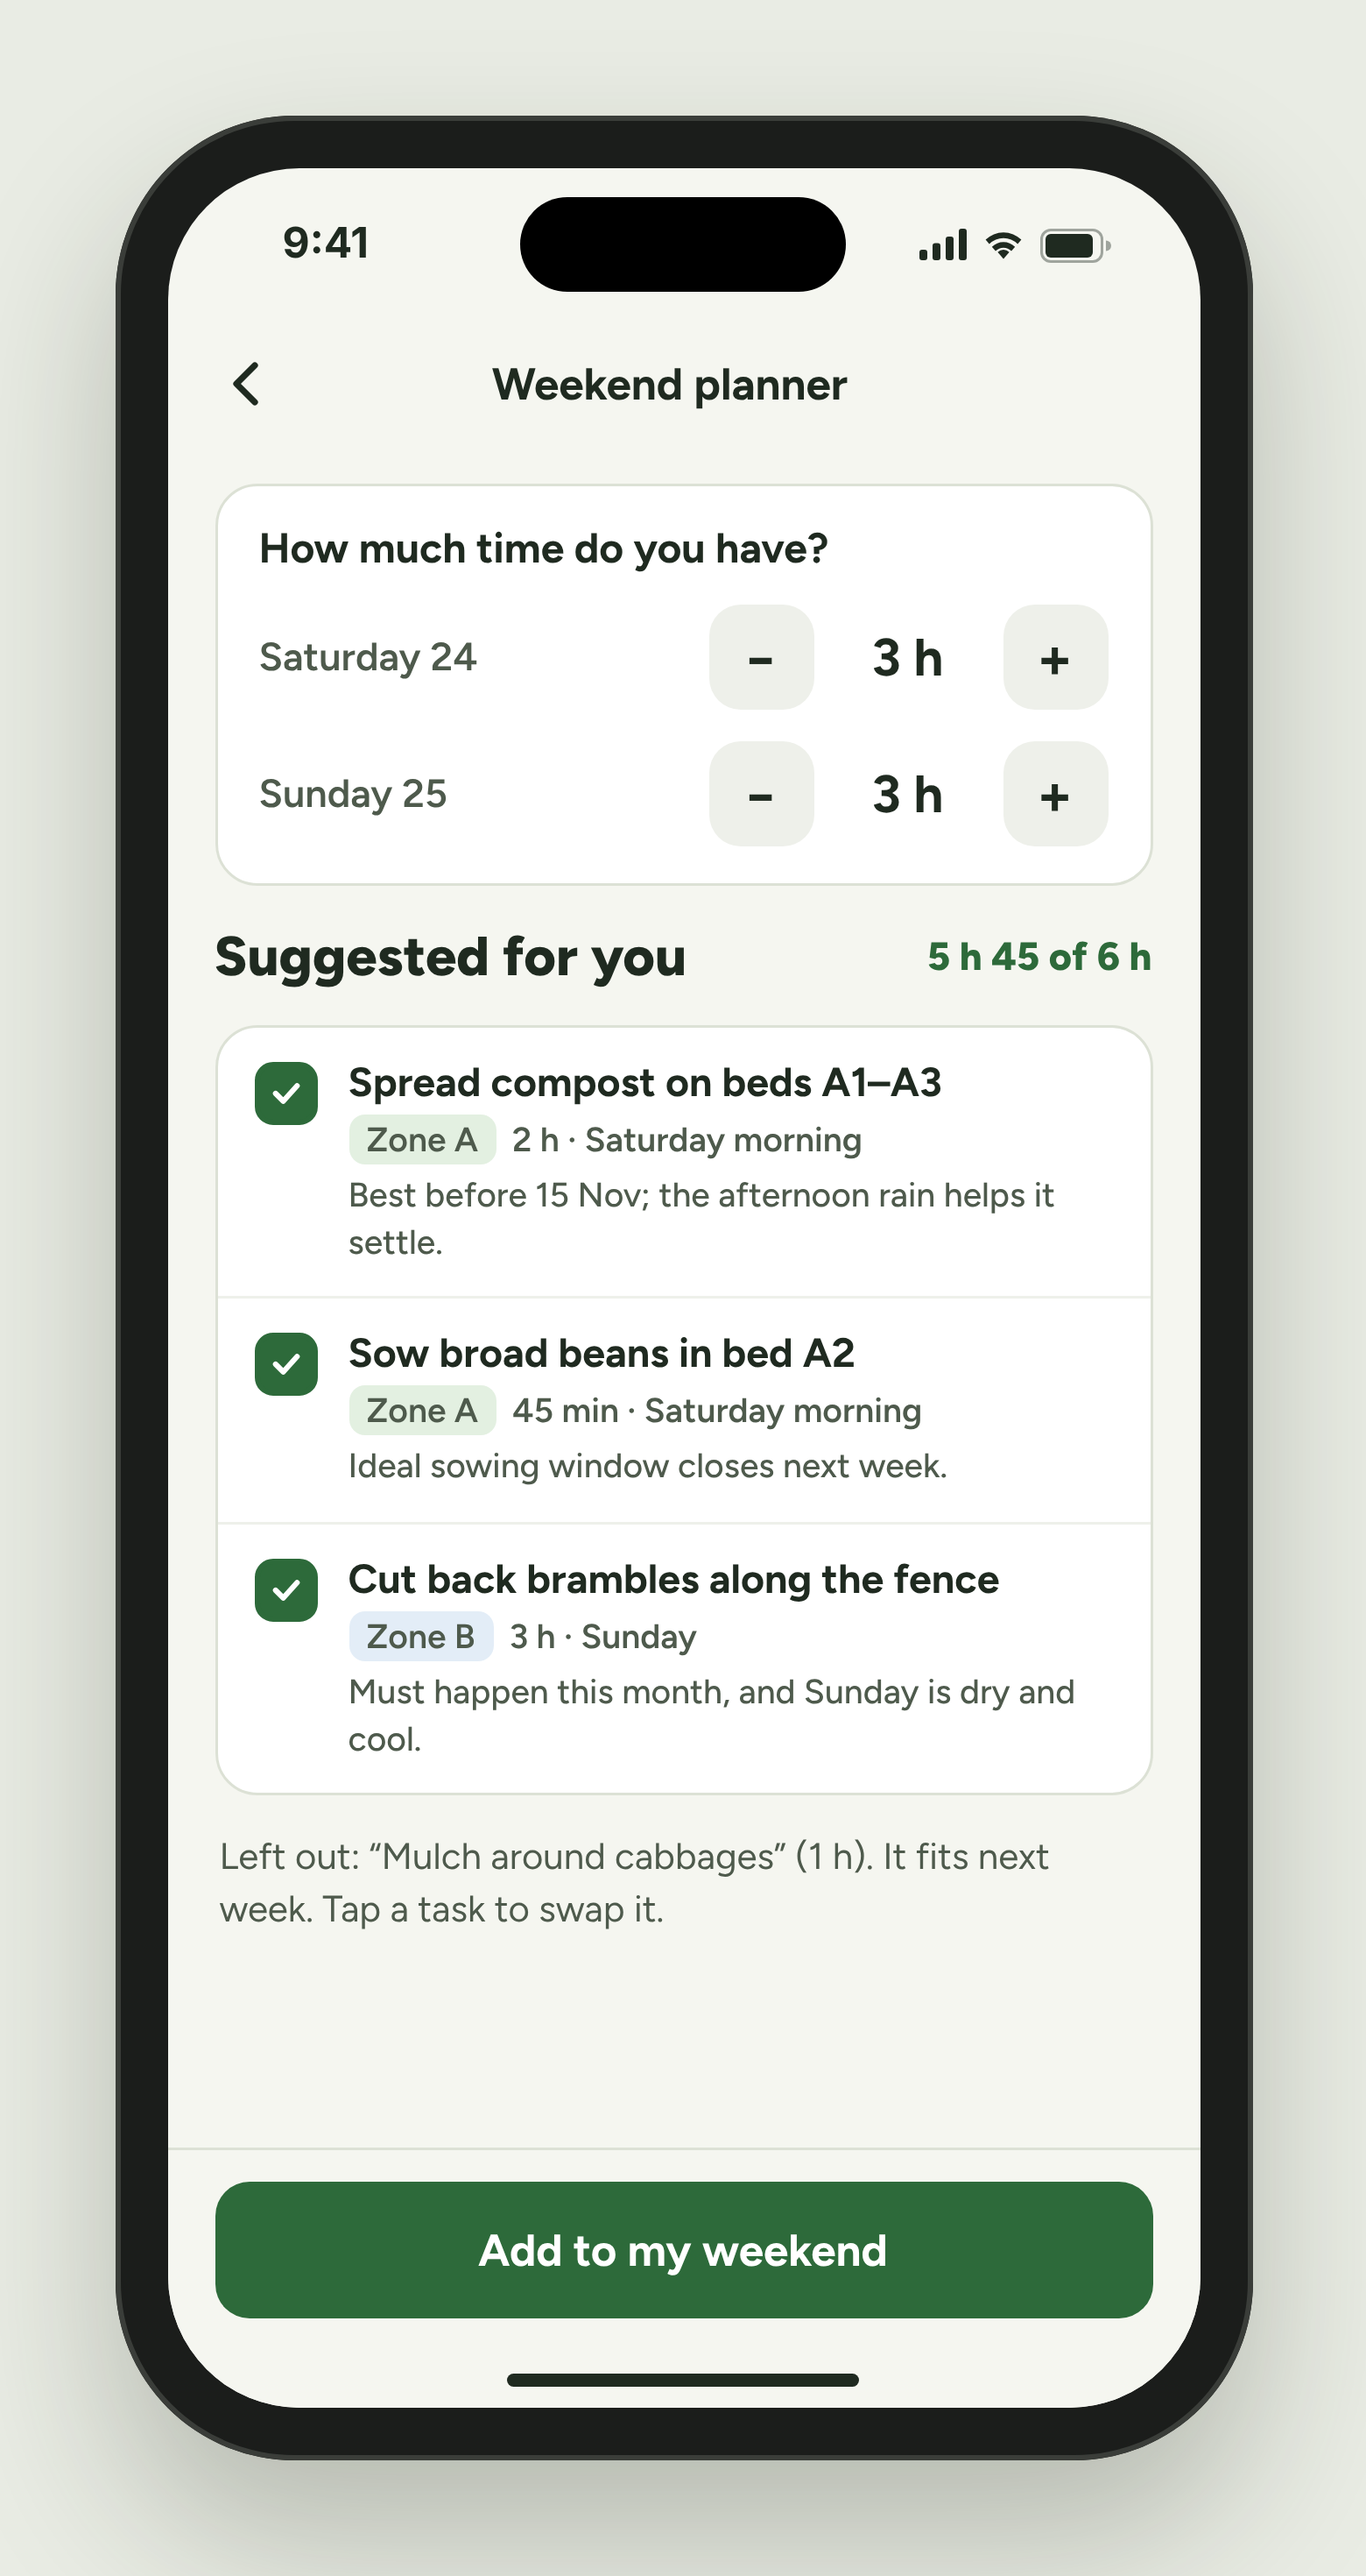
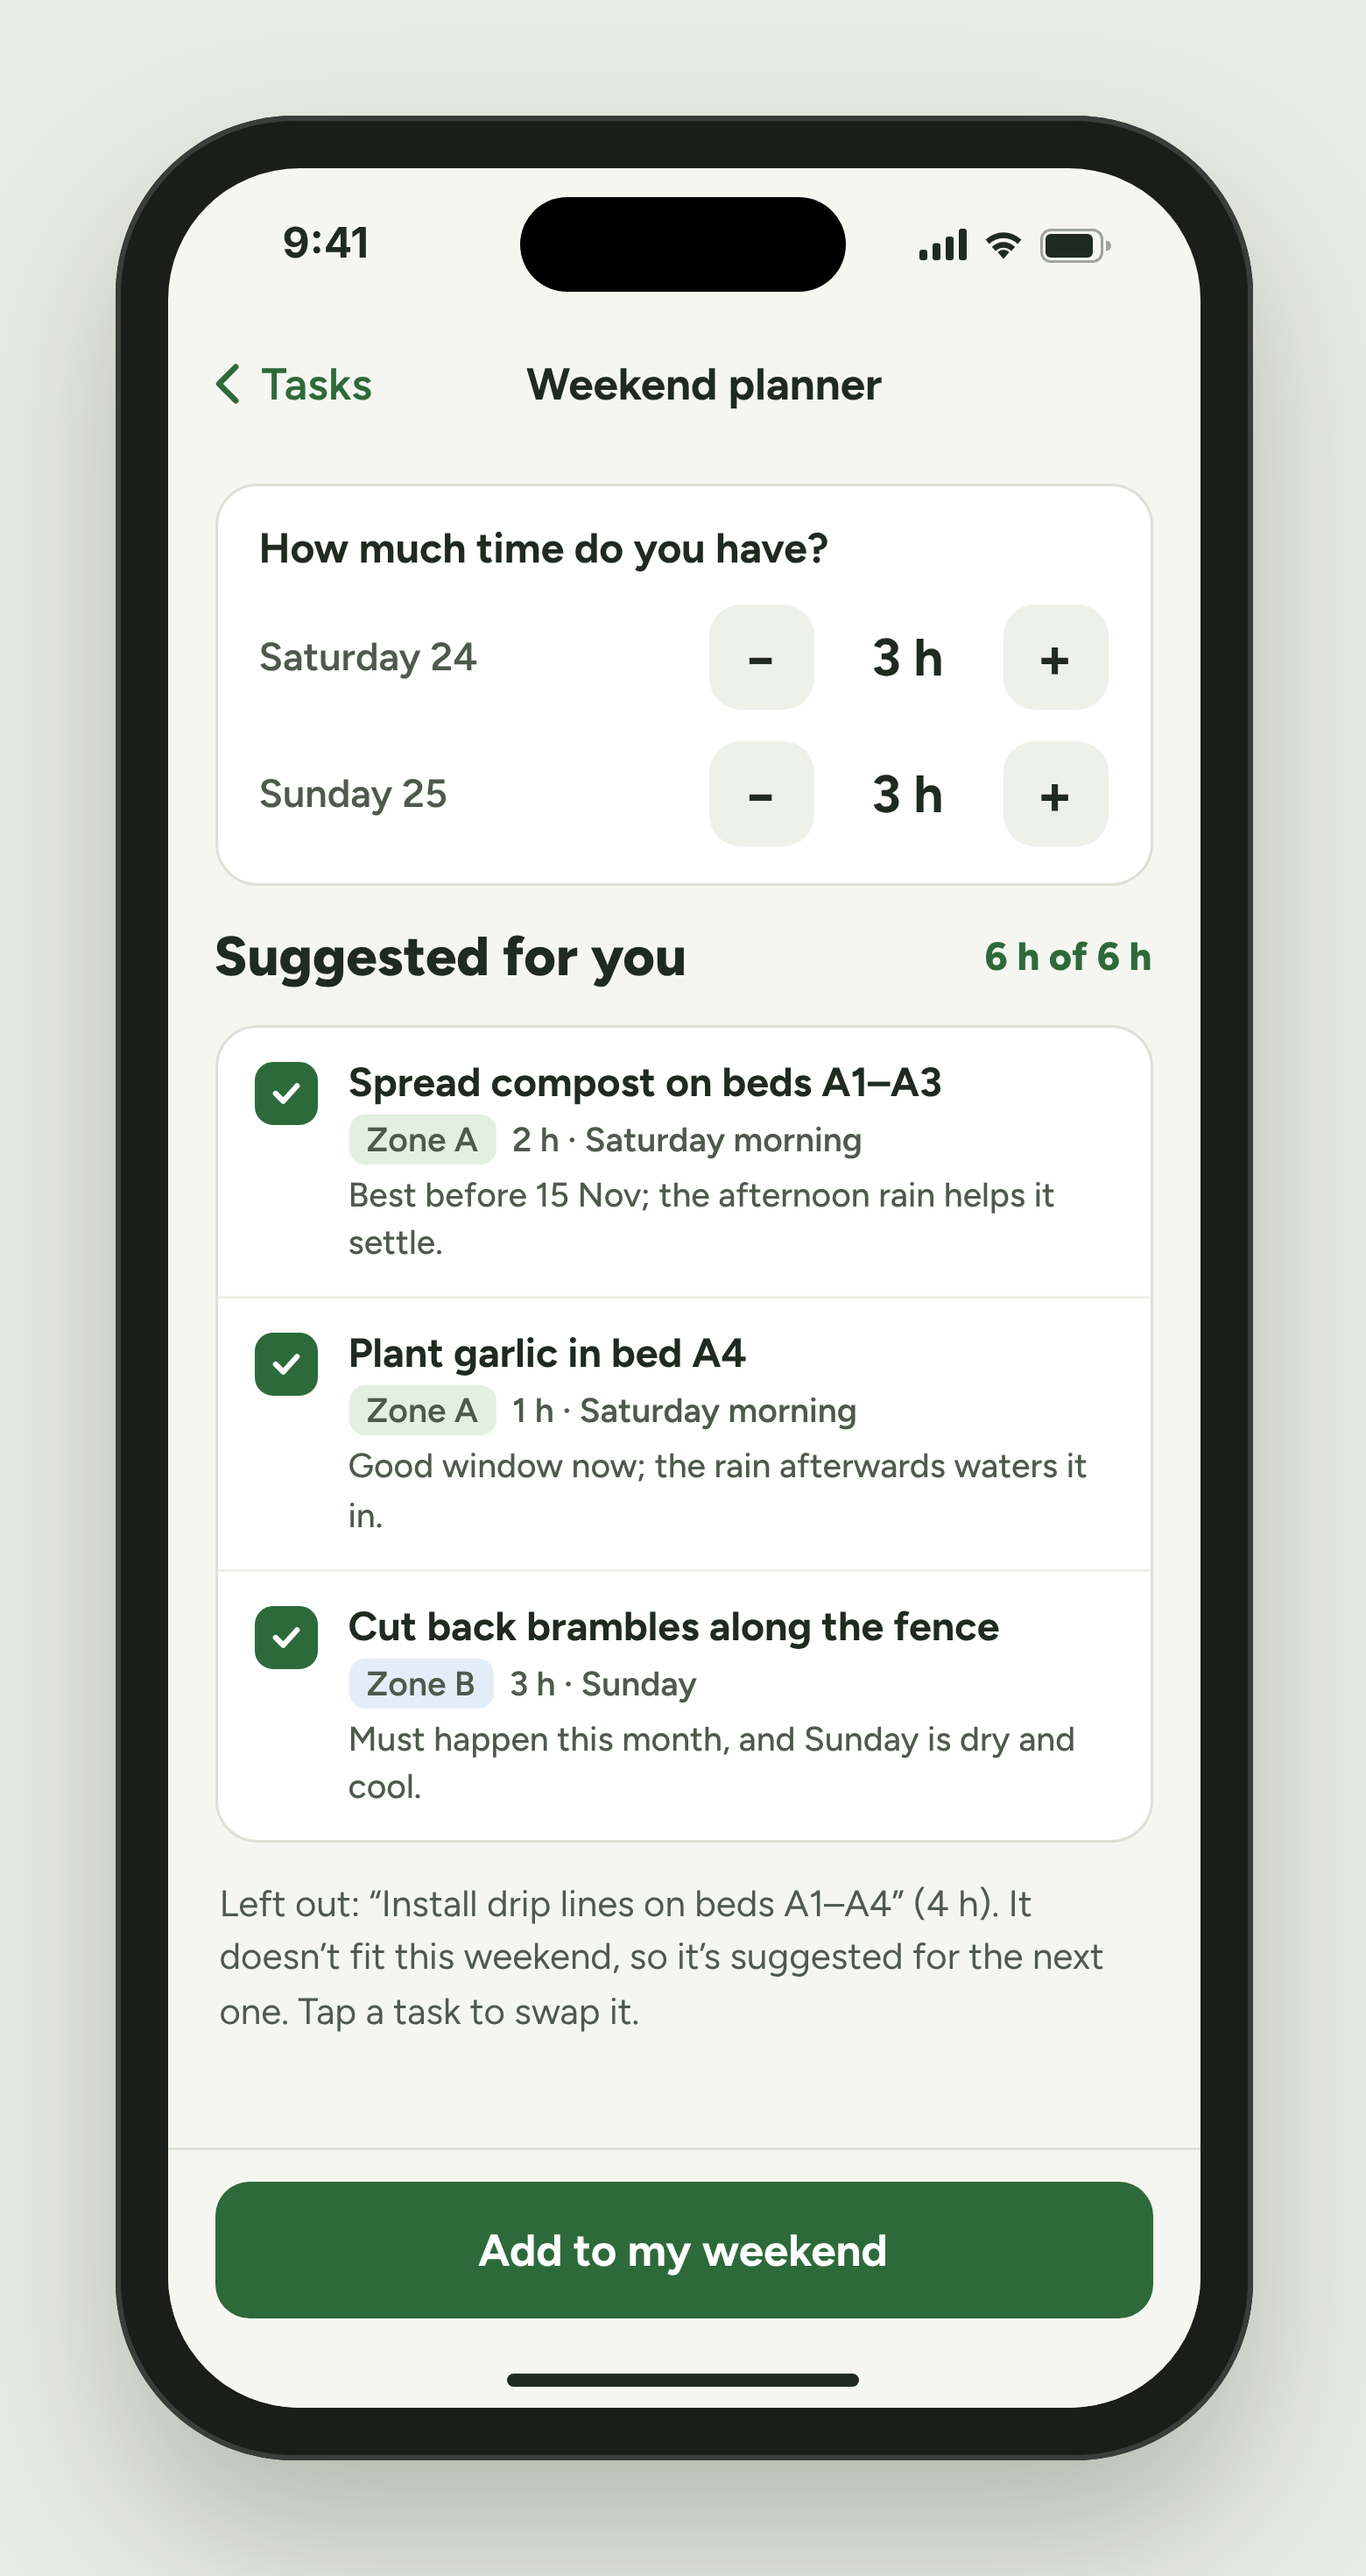
Design: B4 consistent with week plan, labelled back button
Claude-Session: https://claude.ai/code/session_015NynAjU4naPZwzmeuGazot

diff --git a/design/source/B4-weekend-planner.html b/design/source/B4-weekend-planner.html
@@ -77,7 +77,7 @@
 
 
   <div class="content" style="gap: 14px; bottom: 120px">
-    <div class="nav"><div class="back"><svg width="24" height="24" viewBox="0 0 24 24" fill="none" stroke="#1F2A20" stroke-width="2.4" stroke-linecap="round" stroke-linejoin="round"><path d="M15 5l-7 7 7 7"/></svg></div><div class="ntitle">Weekend planner</div><div class="nright"></div></div>
+    <div class="nav"><div class="back" style="width: auto; margin-left: -6px; gap: 2px; color: var(--green); font-size: 17px; font-weight: 600"><svg width="22" height="22" viewBox="0 0 24 24" fill="none" stroke="#2D6A3A" stroke-width="2.4" stroke-linecap="round" stroke-linejoin="round"><path d="M15 5l-7 7 7 7"/></svg>Tasks</div><div class="ntitle">Weekend planner</div><div class="nright"></div></div>
     <div class="card" style="display: flex; flex-direction: column; gap: 12px">
       <div style="font-size: 16px; font-weight: 700">How much time do you have?</div>
       <div class="row" style="justify-content: space-between">
@@ -89,13 +89,13 @@
         <div class="row" style="gap: 14px"><span class="stepbtn">−</span><b style="font-size: 20px; width: 44px; text-align: center">3 h</b><span class="stepbtn">+</span></div>
       </div>
     </div>
-    <div class="row" style="justify-content: space-between"><h2>Suggested for you</h2><span style="font-size: 15px; font-weight: 800; color: var(--green)">5 h 45 of 6 h</span></div>
+    <div class="row" style="justify-content: space-between"><h2>Suggested for you</h2><span style="font-size: 15px; font-weight: 800; color: var(--green)">6 h of 6 h</span></div>
     <div class="list">
       <div class="item" style="align-items: flex-start"><div class="box done" style="margin-top: 2px"><svg width="14" height="14" viewBox="0 0 24 24" fill="none" stroke="#fff" stroke-width="3.5" stroke-linecap="round" stroke-linejoin="round"><path d="M5 12l5 5 9-10"/></svg></div><div class="it"><b>Spread compost on beds A1–A3</b><span class="row" style="gap: 6px"><span class="zc za">Zone A</span>2 h · Saturday morning</span><span style="font-weight: 500; line-height: 1.4">Best before 15 Nov; the afternoon rain helps it settle.</span></div></div>
-      <div class="item" style="align-items: flex-start"><div class="box done" style="margin-top: 2px"><svg width="14" height="14" viewBox="0 0 24 24" fill="none" stroke="#fff" stroke-width="3.5" stroke-linecap="round" stroke-linejoin="round"><path d="M5 12l5 5 9-10"/></svg></div><div class="it"><b>Sow broad beans in bed A2</b><span class="row" style="gap: 6px"><span class="zc za">Zone A</span>45 min · Saturday morning</span><span style="font-weight: 500; line-height: 1.4">Ideal sowing window closes next week.</span></div></div>
+      <div class="item" style="align-items: flex-start"><div class="box done" style="margin-top: 2px"><svg width="14" height="14" viewBox="0 0 24 24" fill="none" stroke="#fff" stroke-width="3.5" stroke-linecap="round" stroke-linejoin="round"><path d="M5 12l5 5 9-10"/></svg></div><div class="it"><b>Plant garlic in bed A4</b><span class="row" style="gap: 6px"><span class="zc za">Zone A</span>1 h · Saturday morning</span><span style="font-weight: 500; line-height: 1.4">Good window now; the rain afterwards waters it in.</span></div></div>
       <div class="item" style="align-items: flex-start"><div class="box done" style="margin-top: 2px"><svg width="14" height="14" viewBox="0 0 24 24" fill="none" stroke="#fff" stroke-width="3.5" stroke-linecap="round" stroke-linejoin="round"><path d="M5 12l5 5 9-10"/></svg></div><div class="it"><b>Cut back brambles along the fence</b><span class="row" style="gap: 6px"><span class="zc zb">Zone B</span>3 h · Sunday</span><span style="font-weight: 500; line-height: 1.4">Must happen this month, and Sunday is dry and cool.</span></div></div>
     </div>
-    <div style="font-size: 14px; color: var(--muted); line-height: 1.45; padding: 0 2px">Left out: “Mulch around cabbages” (1 h). It fits next week. Tap a task to swap it.</div>
+    <div style="font-size: 14px; color: var(--muted); line-height: 1.45; padding: 0 2px">Left out: “Install drip lines on beds A1–A4” (4 h). It doesn’t fit this weekend, so it’s suggested for the next one. Tap a task to swap it.</div>
   </div>
   <div class="bottom" style="padding-bottom: 34px">
     <div class="btn primary">Add to my weekend</div>
